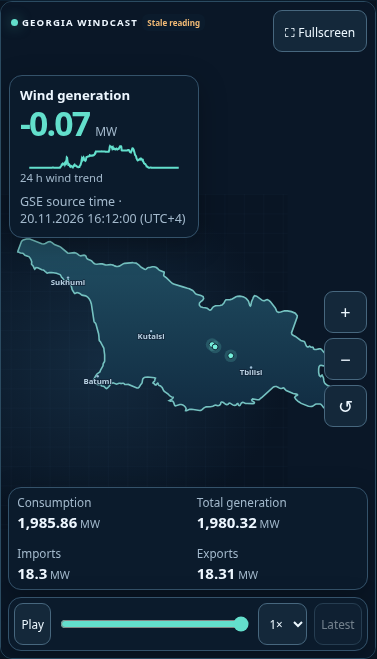
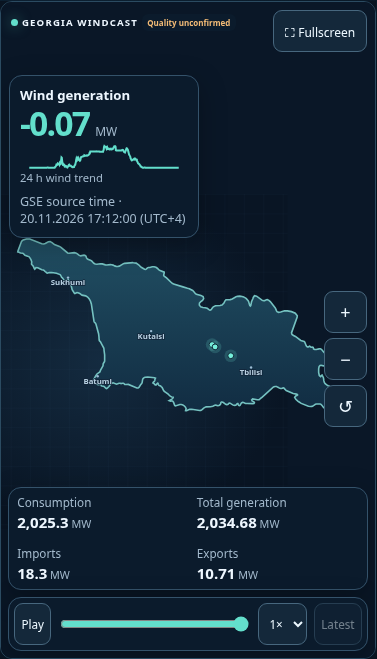
Finalize fullscreen interaction and source verification

diff --git a/streamlit_cloud/system_map_frontend/map.js b/streamlit_cloud/system_map_frontend/map.js
@@ -153,7 +153,9 @@ function readings() {
   text("wind", mw(values.wind));
   el("wind").nextElementSibling.hidden = !Number.isFinite(values.wind);
   text("source-time", t("source") + " · " + localTime(period?.label));
-  el("wind").title = period && !period.wind_confirmed ? t("windUnconfirmed") : "";
+  const windUnconfirmed = Boolean(period && Number.isFinite(values.wind) && !period.wind_confirmed);
+  text("wind-quality", t("windUnconfirmed"));
+  el("wind-quality").hidden = !windUnconfirmed;
   text("trend-label", t("trend"));
   const comparable = prev && period.time - prev.time === 180 && period.wind_confirmed && prev.wind_confirmed &&
     Number.isFinite(values.wind) && Number.isFinite(prev.values.wind);
@@ -297,10 +299,19 @@ el("expand").onclick = async () => {
   fullscreenLabel();
 };
 document.addEventListener("fullscreenchange", fullscreenLabel);
-document.addEventListener("keydown", event => {
-  if (event.key === "Escape" && fallback) { immersive(false); fullscreenLabel(); }
+document.addEventListener("keydown", async event => {
+  if (event.key !== "Escape") return;
+  if (fallback) {
+    immersive(false);
+    fullscreenLabel();
+  } else if (document.fullscreenElement === stage) {
+    await document.exitFullscreen();
+  }
 });
-window.addEventListener("pagehide", () => immersive(false));
+window.addEventListener("pagehide", () => {
+  immersive(false);
+  if (sameOriginParent) sameOriginParent.removeEventListener("resize", resize);
+});
 
 function resize() {
   const mobile = innerWidth < 590;
@@ -337,6 +348,14 @@ window.addEventListener("message", event => {
     render(event.data.args);
   }
 });
+// A height-only change in the host window may leave the iframe dimensions untouched.
+let sameOriginParent = null;
+try {
+  if (window.parent !== window && window.parent.location.origin === location.origin) {
+    sameOriginParent = window.parent;
+    sameOriginParent.addEventListener("resize", resize);
+  }
+} catch { /* native fullscreen and child resize remain available */ }
 new ResizeObserver(resize).observe(document.querySelector("main"));
 window.addEventListener("resize", resize);
 setInterval(() => { if (timer === null && data.periods.length) readings(); }, 30000);

diff --git a/streamlit_cloud/system_map_frontend/map.css b/streamlit_cloud/system_map_frontend/map.css
@@ -33,6 +33,8 @@ h1,h2,p{margin:0}
 #spark{fill:none;stroke:var(--mint);stroke-width:2;vector-effect:non-scaling-stroke}
 .trend-meta{display:flex;justify-content:space-between;color:var(--muted);font-size:.75rem;gap:.35rem}
 #source-time{display:block;color:var(--muted);margin-top:.55rem}
+#wind-quality{color:var(--amber);font-size:.72rem}
+@media(prefers-reduced-motion:no-preference){button,.site circle{transition:background-color 140ms,opacity 140ms}}
 .map-tools{position:absolute;right:12px;top:42%;display:grid;gap:5px}
 .map-tools button{min-width:43px;font-size:1.2rem;padding:0}
 .stage-bottom{position:absolute;inset:auto 12px 12px;display:grid;gap:7px}
@@ -84,3 +86,7 @@ a{color:#8fdbff}
 }
 
 #closure[data-mismatch="true"]{color:var(--amber)}
+
+@media(max-height:480px){
+  #stage:is(.immersive,:fullscreen) .stage-bottom{gap:4px}
+}

diff --git a/streamlit_cloud/system_map_frontend/index.html b/streamlit_cloud/system_map_frontend/index.html
@@ -28,6 +28,7 @@
       <svg id="trend" viewBox="0 0 280 48" role="img"><path id="spark"/></svg>
       <div class="trend-meta"><span id="trend-label"></span><span id="delta"></span></div>
       <small id="source-time"></small>
+      <small id="wind-quality" hidden></small>
     </div>
     <div id="site-info" class="glass" hidden><strong id="site-name"></strong><small id="site-detail"></small><button id="close-site" type="button">×</button></div>
     <div class="map-tools" role="group">

diff --git a/streamlit_cloud/tests/test_system_snapshot.py b/streamlit_cloud/tests/test_system_snapshot.py
@@ -8,6 +8,7 @@ from unittest.mock import patch
 import pytest
 
 from balance import BLOCKS, inspect_interchange, parse_balance
+from app.ingestion.gse_parser import parse_wind_export
 from store import BalanceRecord
 from system_snapshot import period_payload, snapshot_badge
 from test_pages import NOW, run
@@ -56,7 +57,11 @@ def test_signed_line_and_subtotal_reconcile_with_collector(file):
     body = file.read_bytes()
     label, ties = inspect_interchange(body)
     same_label, balance = parse_balance(body)
-    assert label == same_label
+    wind = parse_wind_export(body)
+    assert label == same_label == wind.period_label_utc
+    assert balance.wind == wind.value_mw
+    identifiers = [(row.block, row.identifier, row.is_subtotal) for row in ties]
+    assert all(row.identifier for row in ties) and len(identifiers) == len(set(identifiers))
     russia = [row for row in ties if "RUSSIA" in row.block]
     assert {row.identifier for row in russia if not row.is_subtotal} == {"Salkhino", "Java", "Nakaduli"}
     assert any(row.is_subtotal for row in russia)

diff --git a/docs/sources/system-snapshot.md b/docs/sources/system-snapshot.md
@@ -20,6 +20,12 @@ The public archive has no per-line history, independent mapping of GSE identifie
 
 If approved line-level collection and independently verified geometry become available, animate only time-qualified, validated directional readings. The motion rate would be illustrative and would have no physical meaning. Historical animation would require actual archived line records for the selected period.
 
+## Release and data acquisition gates
+
+The Streamlit README records owner-reported authorization for the existing aggregate use. [Issue #18](https://github.com/GiorgiKhorbaladze/Georgia-WindCast/issues/18) still tracks written GSE terms for automated retrieval and public redistribution, and this review did not locate those written terms. The scope of any existing permission should be confirmed before a public rollout. The PR uses the same archive and activates no collection or publication.
+
+Before a line-level phase, get written approval for public line readings and independently reusable geometry. Define a reviewed registry mapping stable source identifiers to named interconnections and neighboring countries. Establish source completeness and quality semantics, including how absent, substituted, duplicate and subtotal-only records are handled. Persist per-line records separately from the existing backwards-compatible national series, with source period, signed MW, quality, source revision and provenance. Reconcile each archived period, preserve discrepancies, and publish animation only for approved, geographically corroborated lines with confirmed readings. Historic periods without line records must remain empty.
+
 ## Browser behavior
 
 The renderer uses bundled SVG and small HTML overlays. It requires neither WebGL nor GPU acceleration. The explicit fullscreen button requests native browser fullscreen when the frame is allowed to do so. Otherwise a same-origin Streamlit frame expands to the viewport. Both retain the camera and playback selection. The exit button restores the previous page, and Escape exits the immersive fallback or is handled by the browser in native mode. The renderer has no required motion or background animation loop.

diff --git a/docs/evidence/premium-system-map/README.md b/docs/evidence/premium-system-map/README.md
@@ -9,7 +9,9 @@ Captured in Chromium against the local Streamlit app with real readings from the
 
 [Desktop exchange panels](exchange-panels-desktop.png) · [Mobile exchange panels](exchange-panels-mobile.png) · [Source and licensing notes](../../sources/system-snapshot.md)
 
-Run the browser check with the app running and Playwright available to Node. The script tests English and Georgian, zoom and reset, site activation, playback, native and fallback entry/exit, retained map state and horizontal overflow. It checks that the map uses fewer than 50 SVG nodes and logs time to render from navigation. Set `SCREENSHOT_DIR` to capture screenshots. Set `BROWSER_ENGINE` to `firefox` or `webkit` to use an installed Playwright engine, or set `BROWSER_EXECUTABLE` to override its executable.
+In the 20 November 2026 QA run, the displayed 17:12 Tbilisi readings matched the balance archive. The separate wind archive carried the same source period, value and payload SHA-256. Both archives showed retrieval at 17:15:34 Tbilisi. The national equation left a **+16.968126 MW** residual, displayed as **16.97 MW**. The comparison uses stored data and does not establish why the source totals differ.
+
+Run the browser check with the app running and Playwright available to Node. The script tests English and Georgian, zoom, drag pan and reset, site activation, recorded timestamps and playback, button and Escape exits in native and fallback modes, retained map state, height-only resizing, 390 px fallback rotation, reduced-motion preferences, stale/missing display and horizontal overflow. It checks that the map uses fewer than 50 SVG nodes and logs time to render from navigation. Set `SCREENSHOT_DIR` to capture screenshots. Set `BROWSER_ENGINE` to `firefox` or `webkit` to use an installed Playwright engine, or set `BROWSER_EXECUTABLE` to override its executable.
 
 ```sh
 node streamlit_cloud/tests/browser_system_map.cjs
